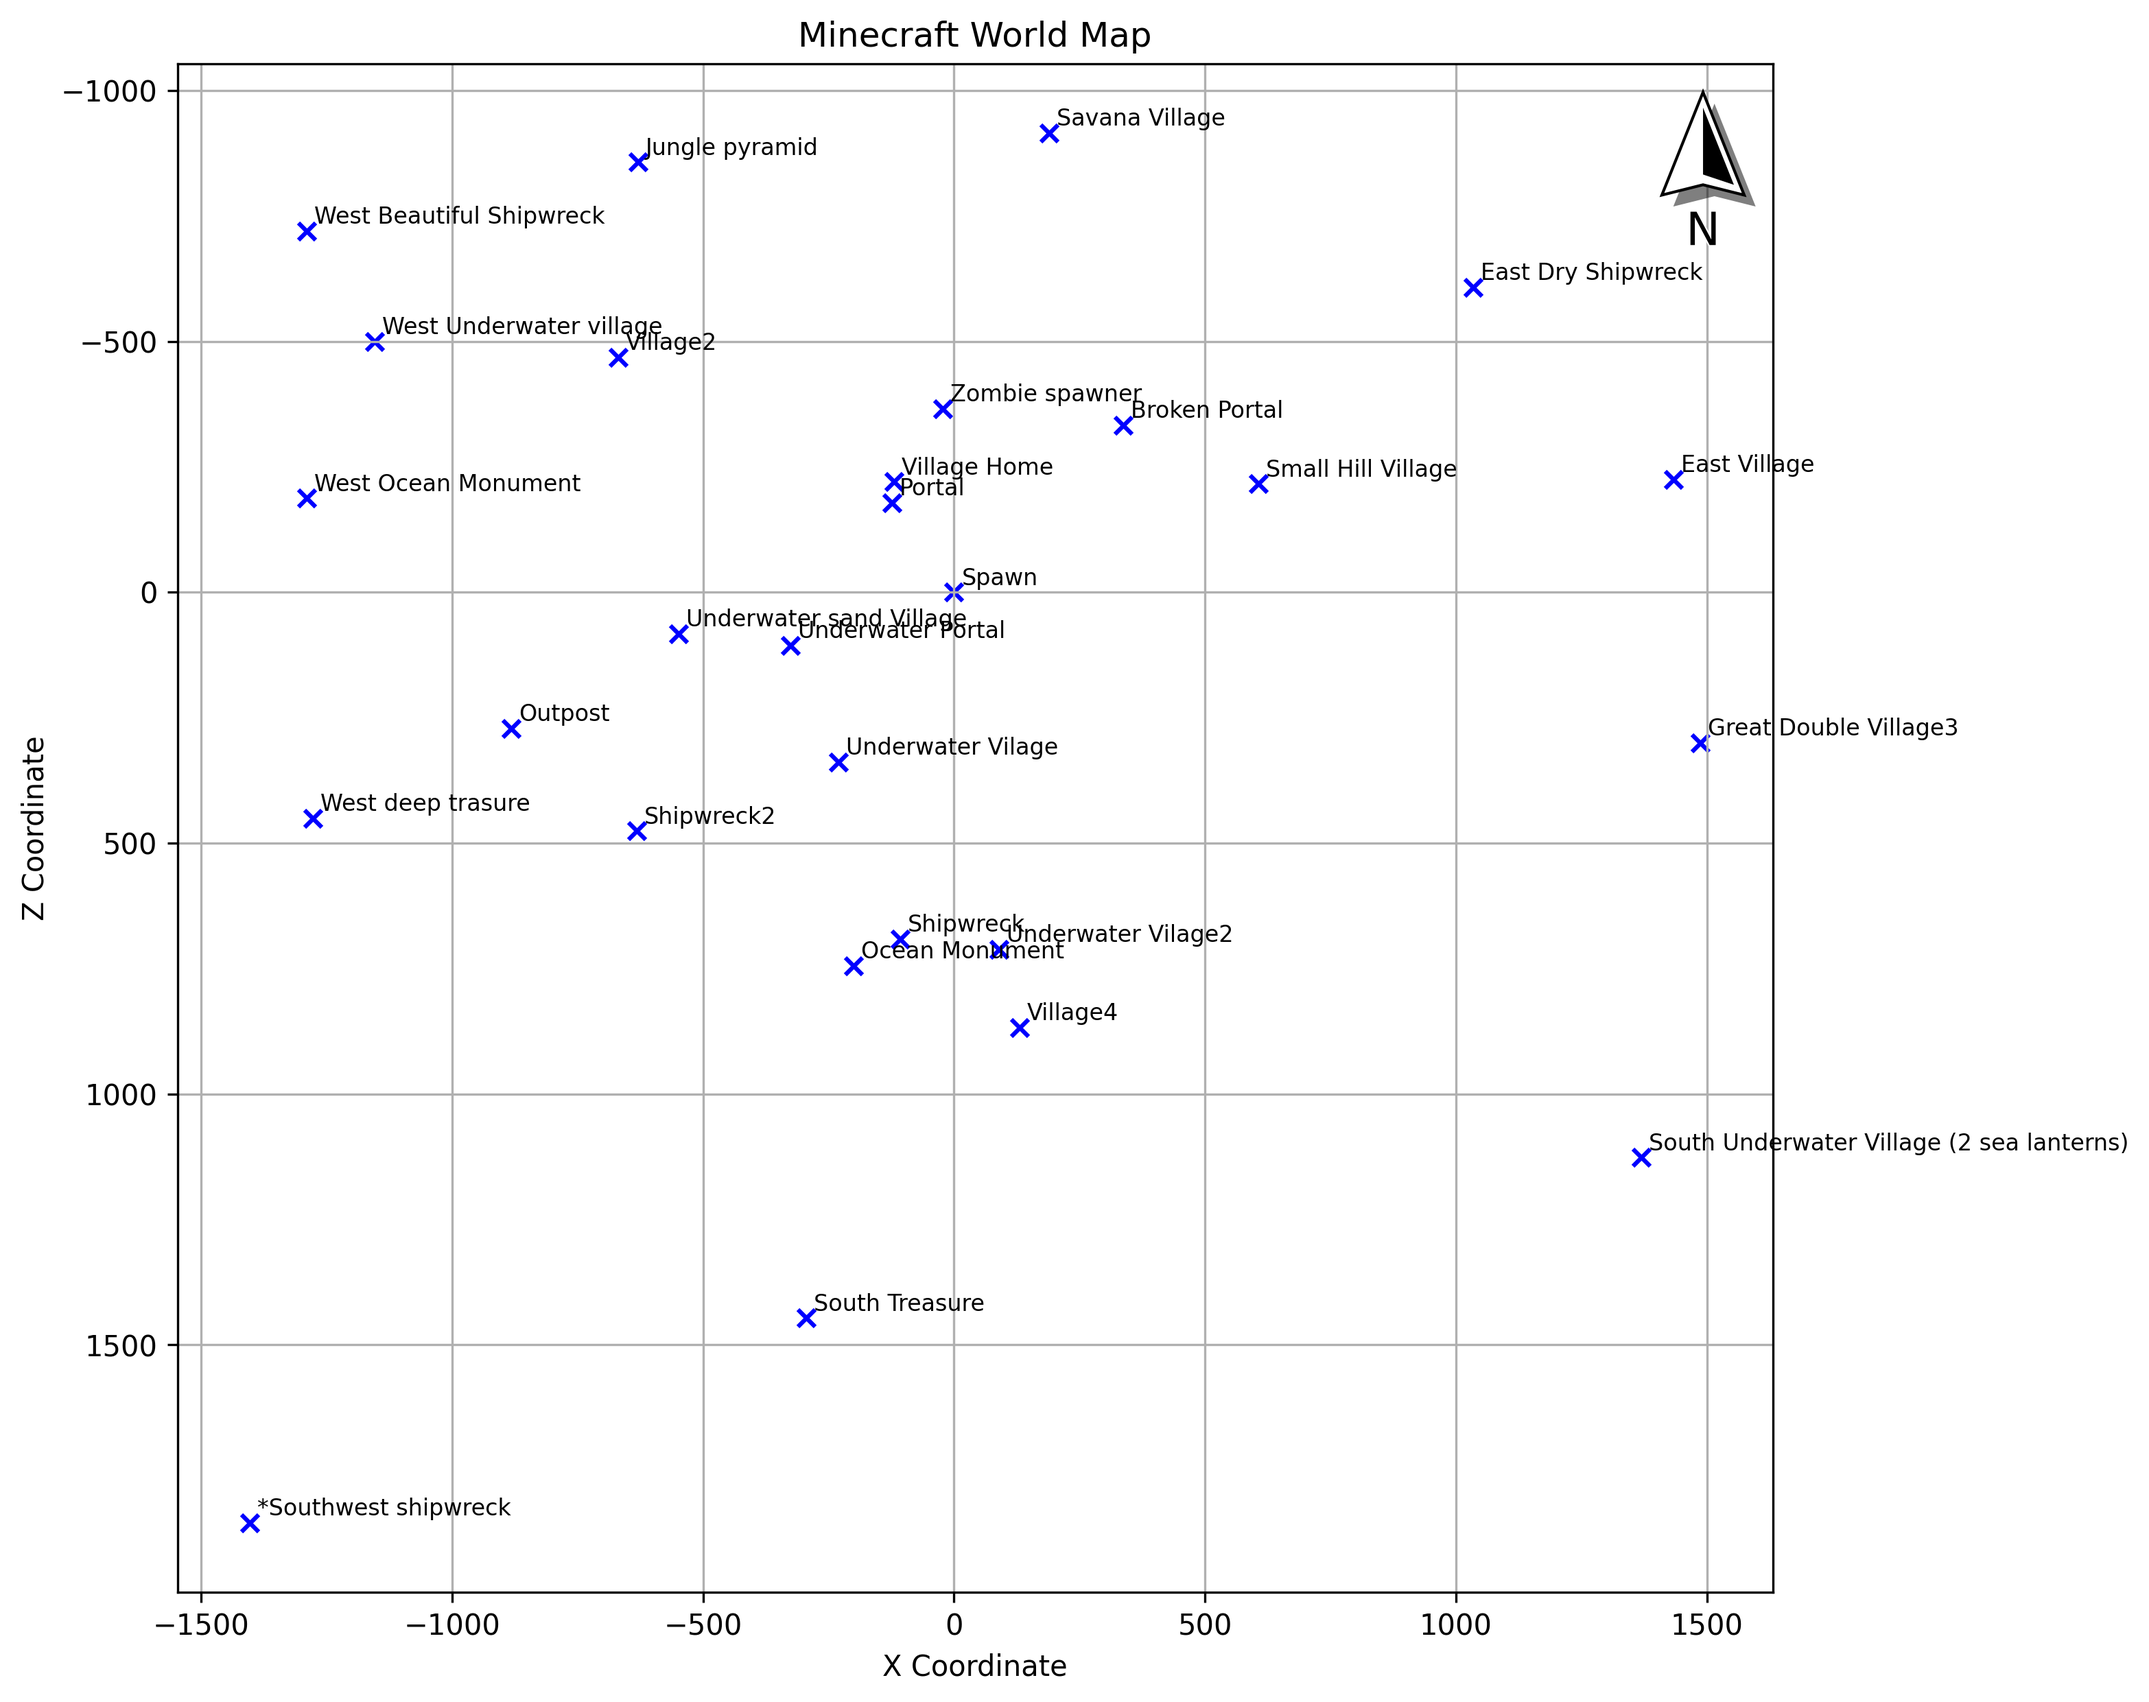
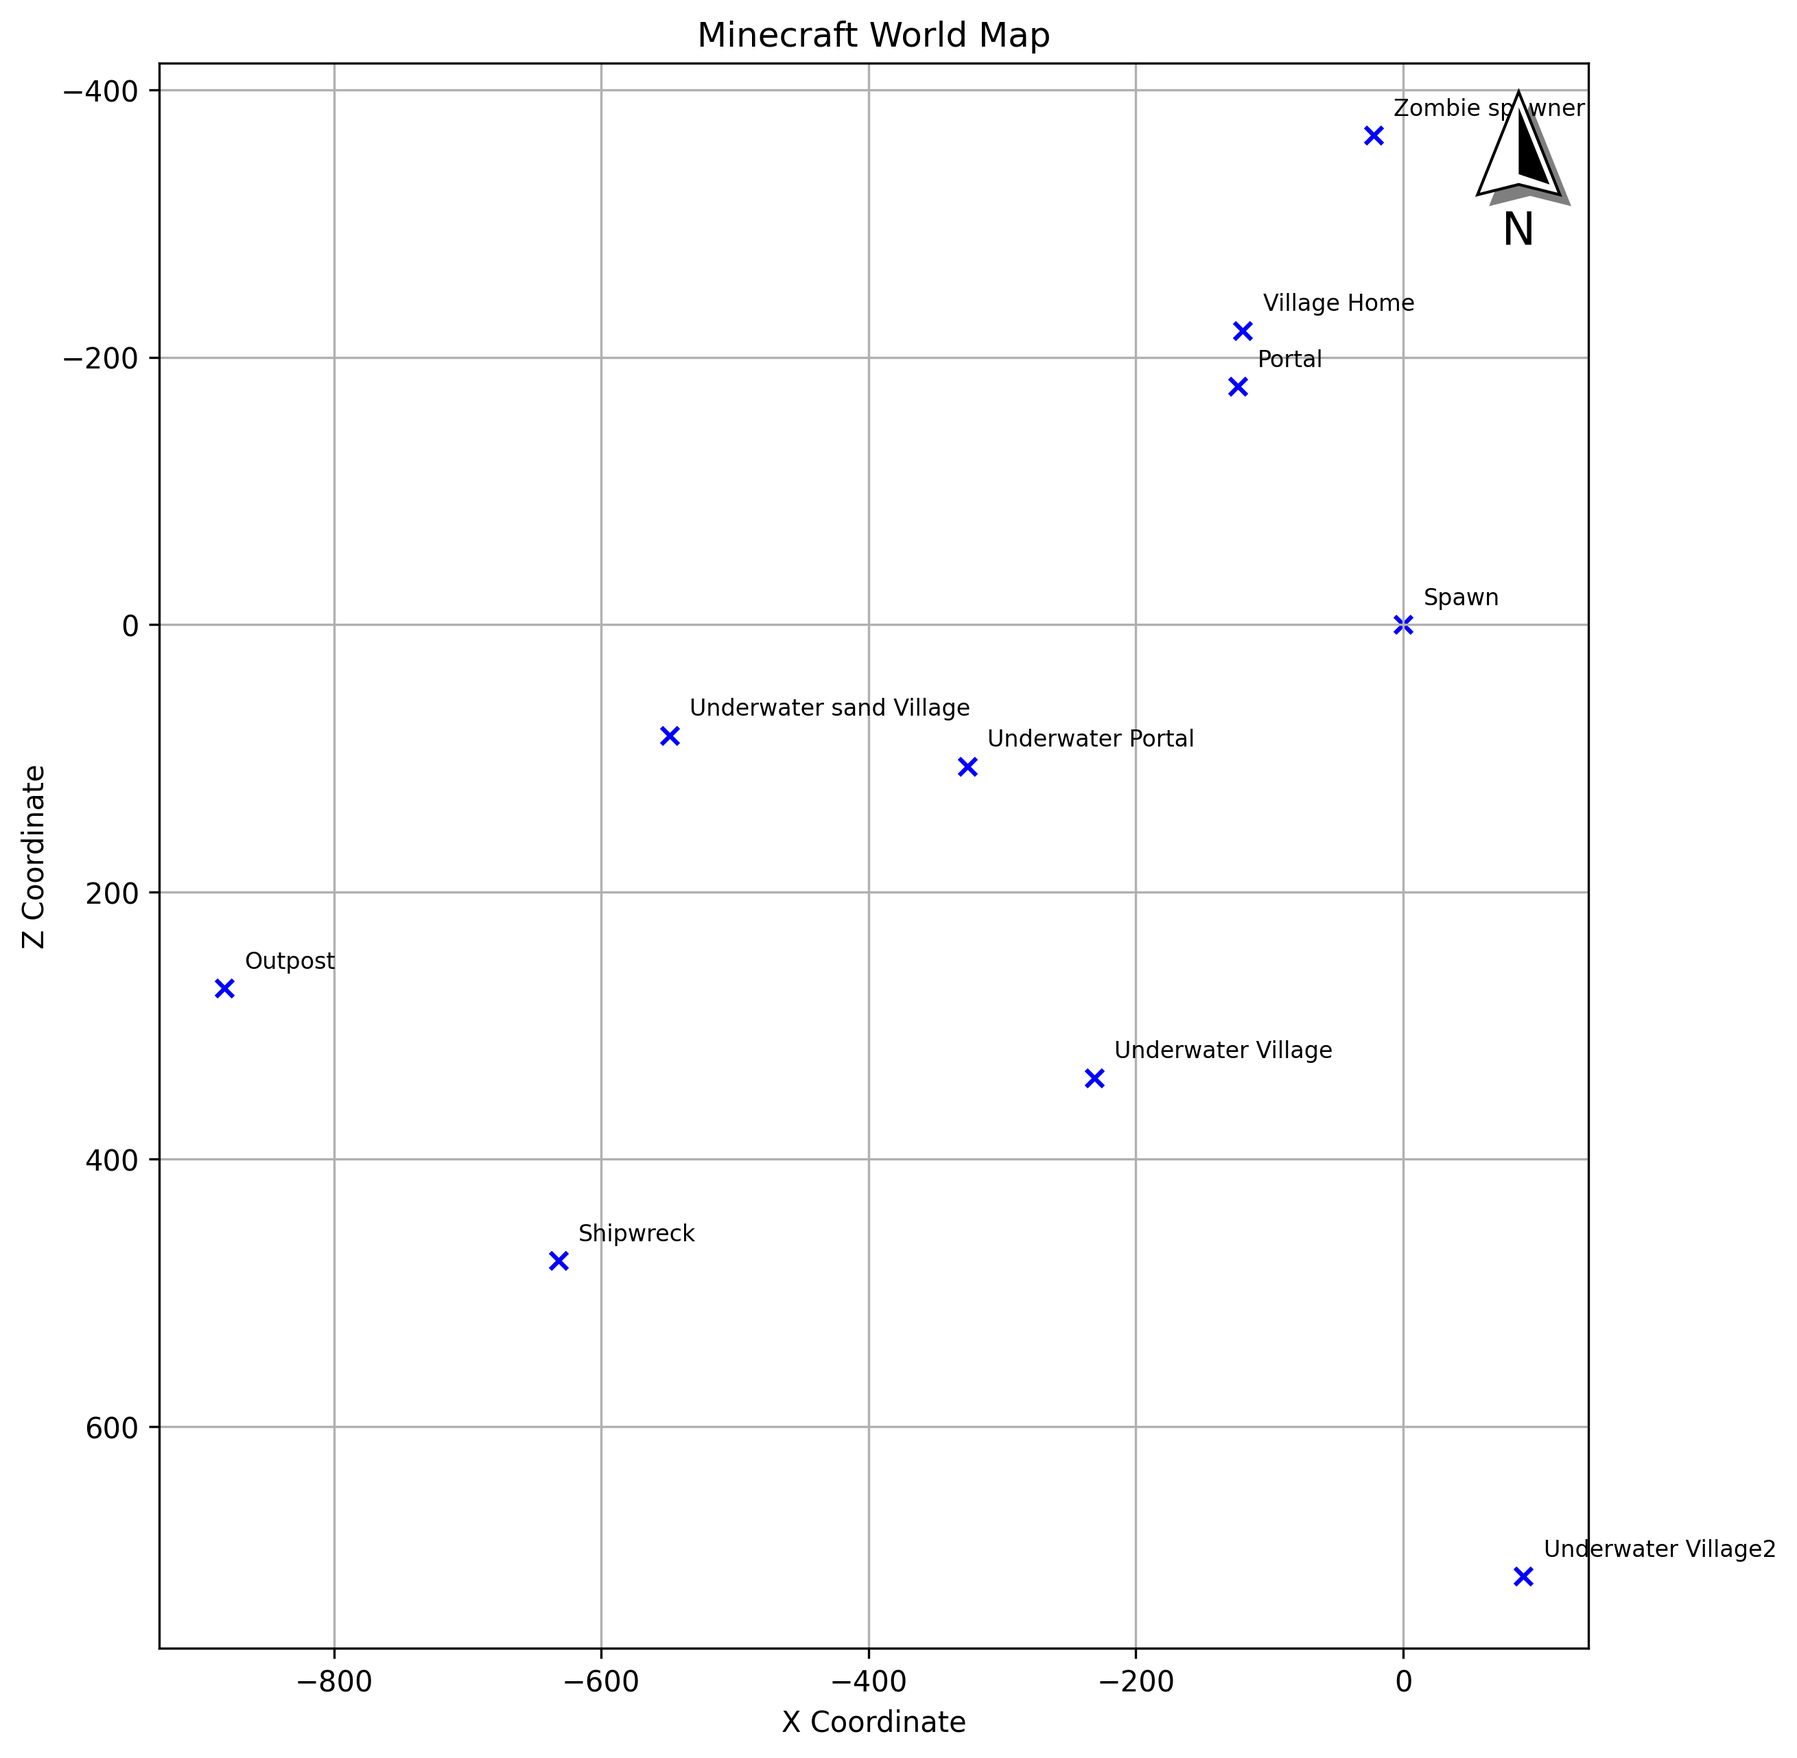
simplify sample data & image

diff --git a/mimap.py b/mimap.py
@@ -16,43 +16,13 @@ input_data = """
 Spawn: 0 / 0 / 0
 Village Home: -120 / 94 / -220
 Portal: -124 / 85 / -178
-
-Underwater Vilage: -231 / 62 / 339
-
-Underwater Vilage2: 90 / 62 / 712
-South Treasure: -295 / 62 / 1447
-
-Shipwreck2: -632 / 62 / 476
+Underwater Village: -231 / 62 / 339
+Underwater Village2: 90 / 62 / 712
+Shipwreck: -632 / 62 / 476
 Outpost: -882 / 62 / 272
-
 Underwater sand Village: -549 / 62 / 83
 Underwater Portal: -326 / 62 / 106
-
-Broken Portal: 337 / 97 / -333
 Zombie spawner: -22  / 23 / -366
-
-Jungle pyramid: -630 / 64 / -857
-
-Village2: -669 / 64 / -468
-
-Small Hill Village: 606 / 109 / -216
-
-Great Double Village3: 1487 / 76 / 300
-East Village: 1434 / 64 / -225
-East Dry Shipwreck: 1034 / 67 / -608
-
-Village4: 130 /79 /868
-Ocean Monument: -200 / 62 / 745
-Shipwreck: -107 / 62 / 691
-
-South Underwater Village (2 sea lanterns): 1370 / 62 / 1127
-Savana Village: 189 / 94 / -915
-
-West Underwater village: -1155 / 62 / -500
-West Beautiful Shipwreck: -1290 / 62 / -720
-West Ocean Monument: -1290 / 62 / -187
-West deep trasure: -1278 / 62 / 451
-*Southwest shipwreck: -1403 / 63 / 1855
 """
 
 LABEL_OFFSET=15

diff --git a/README.md b/README.md
@@ -7,25 +7,18 @@ Create a simple Minecraft schematic map from your notes.
 This is my current game's coordinates notes:
 ```
 Spawn: 0 / 0 / 0
-Village Home: -120 / 94 / -220
-Farm: -93 / 92 / -208
-Portal: -124 / 85 / -178
-Iron Farm: -162 / 83 / -186
 
-Broken Portal: 337 / 97 / -333
+Village Home: -120 / 94 / -220
+Portal: -124 / 85 / -178
+
 Zombie spawner: -22  / 23 / -366
 
-Jungle pyramid: -630 / 64 / -857
-
-Village2: -669 / 64 / -468
-
-Small Hill Village: 606 / 109 / -216
-
-Great Double Village3: 1487 / 76 / 300
-
-Village4: 130 /79 /868
-Ocean Monument: -200 / 62 / 745
-Shipwreck: -107 / 62 / 691
+Underwater Village: -231 / 62 / 339
+Underwater Village2: 90 / 62 / 712
+Shipwreck: -632 / 62 / 476
+Outpost: -882 / 62 / 272
+Underwater sand Village: -549 / 62 / 83
+Underwater Portal: -326 / 62 / 106
 ```
 
 After running `./mimap.py` you get this:
